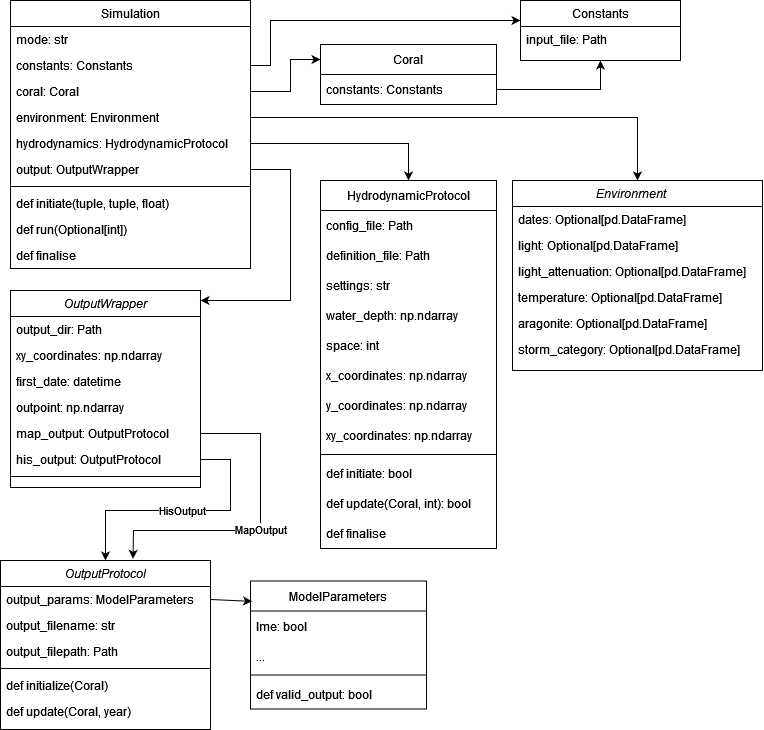
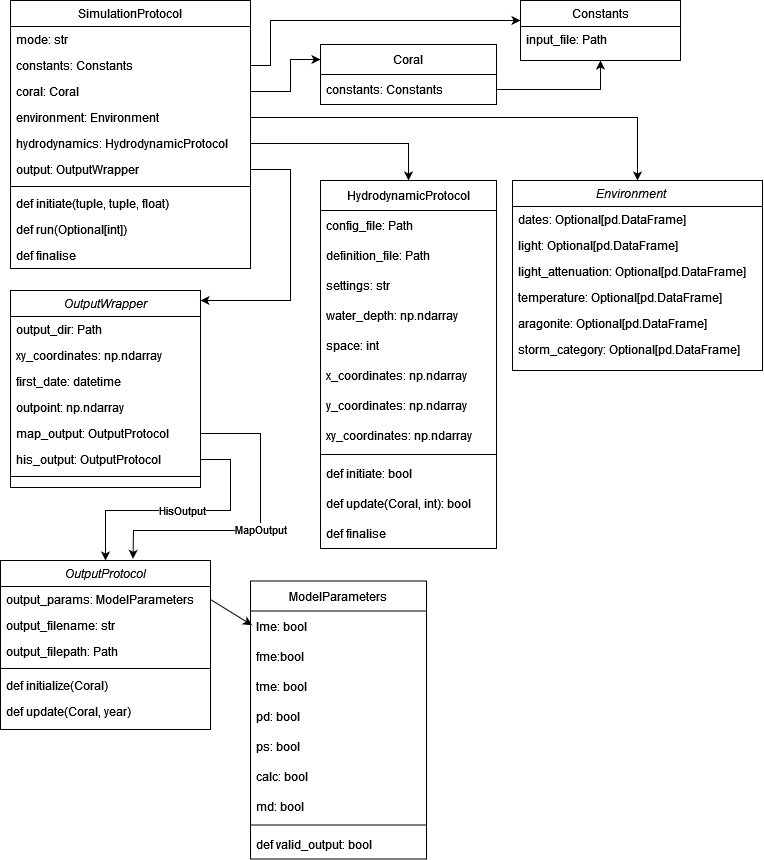
docs(docs/diagrams): Extended and updated architecture diagram(s)

diff --git a/src/core/simulation/base_simulation.py b/src/core/simulation/base_simulation.py
@@ -158,7 +158,7 @@ class _Simulation(BaseModel, ABC):
         Configures the parameters for the `HydrodynamicsProtocol`.
 
         Raises:
-            NotImplementedError: [description]
+            NotImplementedError: When abstract method not defined in concrete class.
         """
         raise NotImplementedError
 

diff --git a/docs/index.md b/docs/index.md
@@ -25,6 +25,16 @@ At the moment of this edition (version v.0.4.0), the project has undergone sever
 A summary of the architecture can be seen in the following 'reduced' class diagram:
 ![`Class diagram v.0.4.0`](./diagrams/general_class_diagram.png)
 
+### SimulationProtocol
+![`SimulationProtocol v.0.4.0`](./diagrams/simulation_protocol.png)
+
+### HydrodynamicProtocol
+![`HydrodynamicProtocol v.0.4.0`](./diagrams/hydrodynamic_protocol.png)
+
+### OutputProtocol
+![`OutputProtocol v.0.4.0`](./diagrams/output_protocol.png)
+
+
 ## CoralModel
 A biophysical model framework written in Python to make simulations 
 on coral development based on four environmental factors: 
